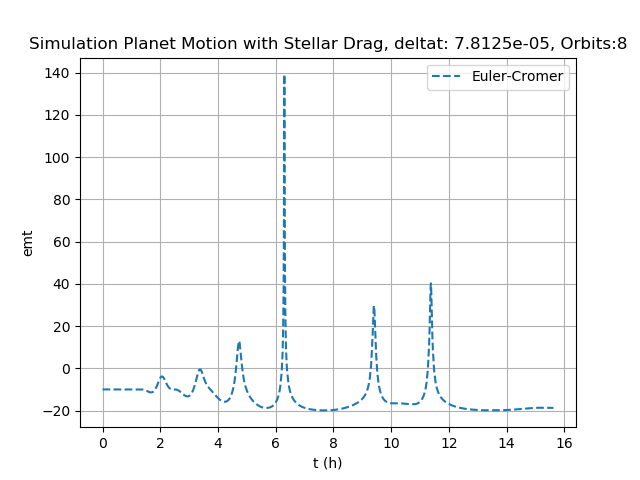
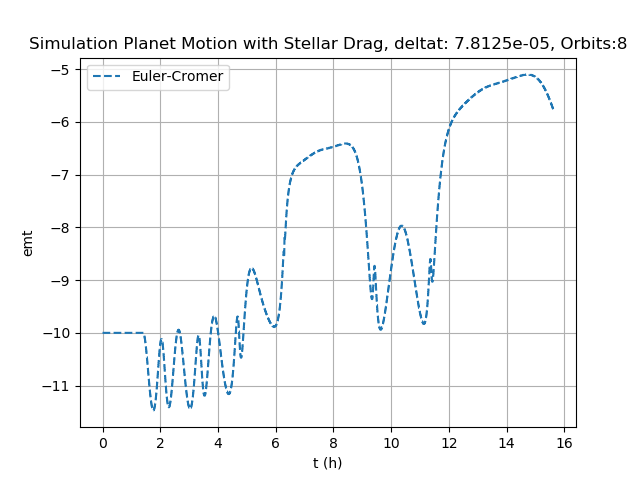
Satellite pB

diff --git a/simulation/satellite/B.py b/simulation/satellite/B.py
@@ -15,5 +15,126 @@ import forces.forces as fr
 
 GMe = 20
 
-W = 0. # con 0 <= A <= 0.3538, de 11 a 7 orbitas, luego se totea por errores numericos
+W = 0. # 3% de la ace, asi a = v**2 / r, a = (vx**2 + vy**2) / np.sqrt(x**2 + y**2)
+       # a = 20, 3% de 20 es 0.6
+W2 = 0.6
 print("Con W =", W)
+print("Luego de una orbita, W =", W2)
+
+
+################################################################################
+# DEFINICION DE CLASES Y FUNCIONES
+
+def cond_init(x, y, vx):
+    v = np.sqrt(GMe / np.sqrt(x**2 + y**2))
+    vy = np.sqrt(v**2 - vx**2)
+    return float(v), vy
+
+def universal_gravity(state, params):
+    x, y, vx, vy, _ = state
+    mass, gu, W = params
+    r2 = x**2 + y**2
+    r3 = np.sqrt(r2) * r2
+    ax = (-gu * x / r3) + W
+    ay = (-gu * y / r3)
+    return vx, vy, ax, ay, 1.
+
+def total_mechanic_energy(v, m, x, y): # cambiar con A & W, con A no cambia,
+                                       # con W se agrega -W*x
+    emt = (1/2) * m * (v**2) - (GMe * m / np.sqrt(x**2 + y**2)) - W * x   # Julian nos la dio asi, hay que averiguar por que
+    return emt
+
+
+################################################################################
+# BLOQUE PRINCIPAL DE INSTRUCCIONES
+
+v0, vy = cond_init(1, 0, 0)
+# print(v0)
+x0, y0, v0, a0, m = 1., .0, v0, 90., 1.
+sim_params = m, GMe, W
+deltat = 0.01/128
+
+m1 = "Euler"
+m2 = "Euler-Cromer"
+m3 = "Midpoint"
+
+satellite = pt.Particle("Satellite", x0, y0, v0, a0, m) # Revisar por que a0 es 90?
+satellite_force = fr.Forces(universal_gravity, sim_params)
+satellite.set_force(satellite_force)
+euler = sl.Solver(satellite, m2, deltat) # El metodo mas estable es Euler Cromer
+xpos, ypos, tpos = [], [], []
+cont = 0
+
+em = []
+vel = []
+for i in range(200000):
+    xc, yc, vxc, vyc, tc = satellite.get_state()
+    v = np.sqrt(vxc**2 + vyc**2)
+    vel.append(v)
+    emt = total_mechanic_energy(v, m, xc, yc)
+    em.append(round(emt, 2))
+    xpos.append(xc)
+    ypos.append(yc)
+    tpos.append(tc)
+    euler.do_step()
+    xc1, yc1, vxc1, vyc1, tc1 = satellite.get_state()
+    if yc < 0 and yc1 >= 0:
+        cont += 1
+        if cont == 1: # Observe que se permite que se realice una orbita con las condiciones iniciales
+                      # y sin W, pero luego se cambia W
+            W = W2
+            sim_params = m, GMe, W
+            satellite_force = fr.Forces(universal_gravity, sim_params)
+            satellite.set_force(satellite_force)
+
+
+print("Method:", m2, ", dt:", deltat)
+# for j in em:
+#     print("Energia Mec Tot:", j)
+print("Energia Mec Tot In:", em[0], ", Energia Mec Tot Fin:", em[-1])
+print("Orbitas:", cont)
+
+
+# emmt = tpos[em.index(min(em))]
+# # print(emmt)
+# emmx = xpos[tpos.index(emmt)]
+# emmy = ypos[tpos.index(emmt)]
+# print("Punto donde emt es min:, x = ", round(emmx, 5), "& y =", round(emmy, 5))
+# print("Con t =", round(emmt, 4), ", emtm =", min(em))
+
+
+# GRAFICA xVSy
+# fig, ax = plt.subplots()
+# ax.plot(xpos, ypos, '--', label=m2)
+#
+# ax.set(xlabel='x (a.u.)', ylabel='y (a.u.)',
+#        title='Simulation Planet Motion with Solar Wind, deltat: ' + str(deltat) + ', Orbits:' + str(cont))
+# ax.grid()
+
+# GRAFICA tVSemt
+fig, ax = plt.subplots()
+ax.plot(tpos, em, '--', label=m2)
+
+ax.set(xlabel='t (h)', ylabel='emt',
+       title='Simulation Planet Motion with Solar Wind, deltat: ' + str(deltat) + ', Orbits:' + str(cont))
+ax.grid()
+
+plt.legend()
+plt.savefig("BemtConW.PNG")
+plt.show()
+
+# Igual que con el arrastre estelar, si W != 0, el satelite tiende a salir
+# de su orbita original, ya que esta nueva fuerza va en la direccion x, asi
+# en un tiempo determinado se produce un choque con la tierra, y aqui la
+# simulacion se totea
+
+# Observe que con x0 = 1, y0 = 1, vx = 0, vy = sqrt(20), deltat = 0.01/128, W = 0
+# tenemos una orbita circular, grafica orbitaCircSinW
+
+# Ahora con W = 0.6, el satelite hace 7 orbitas, luego se estrella con la
+# tierra, grafica orbitaCircConW, ademas de la misma grafica con zoom
+
+# Como la orbita sin W es idealmente circular, la energia mecanica se conserva
+# casi de forma exacta, grafica emtSinW
+
+# Con W = 0.6, la energia mecanica cambia en ciertos puntos, grafica emtConW

diff --git a/simulation/satellite/A.py b/simulation/satellite/A.py
@@ -38,8 +38,8 @@ def universal_gravity(state, params):
     ay = (-gu * y / r3) - A * np.sqrt(vx**2 + vy**2) * y
     return vx, vy, ax, ay, 1.
 
-def total_mechanic_energy(v, m): # cambiar con A & W
-    emt = (1/2) * m * (v**2) - GMe * m  # Julian nos la dio asi, hay que averiguar por que
+def total_mechanic_energy(v, m, x, y): # cambiar con A & W
+    emt = (1/2) * m * (v**2) - GMe * m / np.sqrt(x**2 + y**2)  # Julian nos la dio asi, hay que averiguar por que
     return emt
 
 
@@ -69,7 +69,7 @@ for i in range(200000):
     xc, yc, vxc, vyc, tc = satellite.get_state()
     v = np.sqrt(vxc**2 + vyc**2)
     vel.append(v)
-    emt = total_mechanic_energy(v, m)
+    emt = total_mechanic_energy(v, m, xc, yc)
     em.append(round(emt, 2))
     xpos.append(xc)
     ypos.append(yc)
